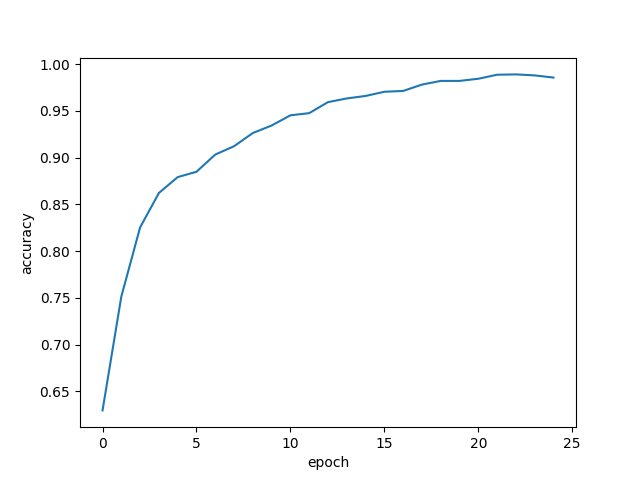
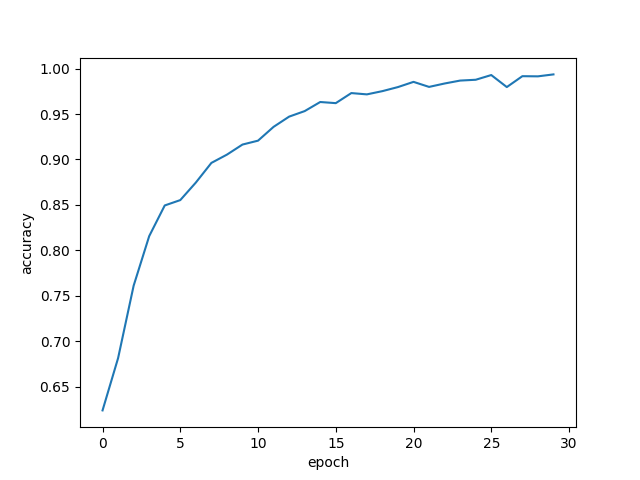
pushing results edits to main are only for testing

diff --git a/main.py b/main.py
@@ -420,7 +420,7 @@ def cross_validation(model, X, y, X_aug, n=10, verbose=False, random_state=None)
     return round(av_accuracy, 2), time.time()-start
 
 
-def plot_results(history, metric, label2='epoch', X_val=None, valid=None, file_name=None):
+def plot_results(history, metric, label2='epoch', X_val=None, valid=None, file_name=None, xscale=None):
     if X_val is None:
         X_val = range(len(history[metric]))
     if valid is None:
@@ -429,6 +429,8 @@ def plot_results(history, metric, label2='epoch', X_val=None, valid=None, file_n
         plt.plot(X_val[valid], history[metric][valid])
     plt.ylabel(metric)
     plt.xlabel(label2)
+    if xscale is not None:
+        plt.xscale()
     if file_name is None:
         plt.show()
     else:
@@ -492,17 +494,17 @@ def main():
         print("Data Generator Creation Took {} Seconds!".format(round(ttg, 4)))
 
         # Test model
-        hist_train, hist_test, pred, ttt = train_test(model, train, test, epochs=25)
+        hist_train, hist_test, pred, ttt = train_test(model, train, test, epochs=30)
         # print(tf.math.confusion_matrix(truth, pred))
         print("Model Training Took {} Seconds!".format(round(ttt, 4)))
 
         acc[k] = hist_test[1]
         print("lr {} had accuracy {}%!".format(lr, acc[k]))
         # Plot Results
-        plot_results(hist_train, 'loss', file_name='Results/ep=25_zoom=3_lr=' + str(lr) + "_VGG16_LOSS.png")
-        plot_results(hist_train, 'accuracy', file_name='Results/ep=25_zoom=3_lr=' + str(lr) + "_VGG16_ACCURACY.png")
+        plot_results(hist_train, 'loss')
+        plot_results(hist_train, 'accuracy')
     print(acc)
-    plot_results({'accuracy': acc}, 'accuracy', valid=valid, X_val=lrs, label2='learning rate', file_name='Results/ep=25_zoom=3_lr_1-7_VGG16_accuracy.png')
+    plot_results({'accuracy': acc}, 'accuracy', valid=valid, X_val=lrs, label2='learning rate')
 
 
 if __name__ == "__main__":
